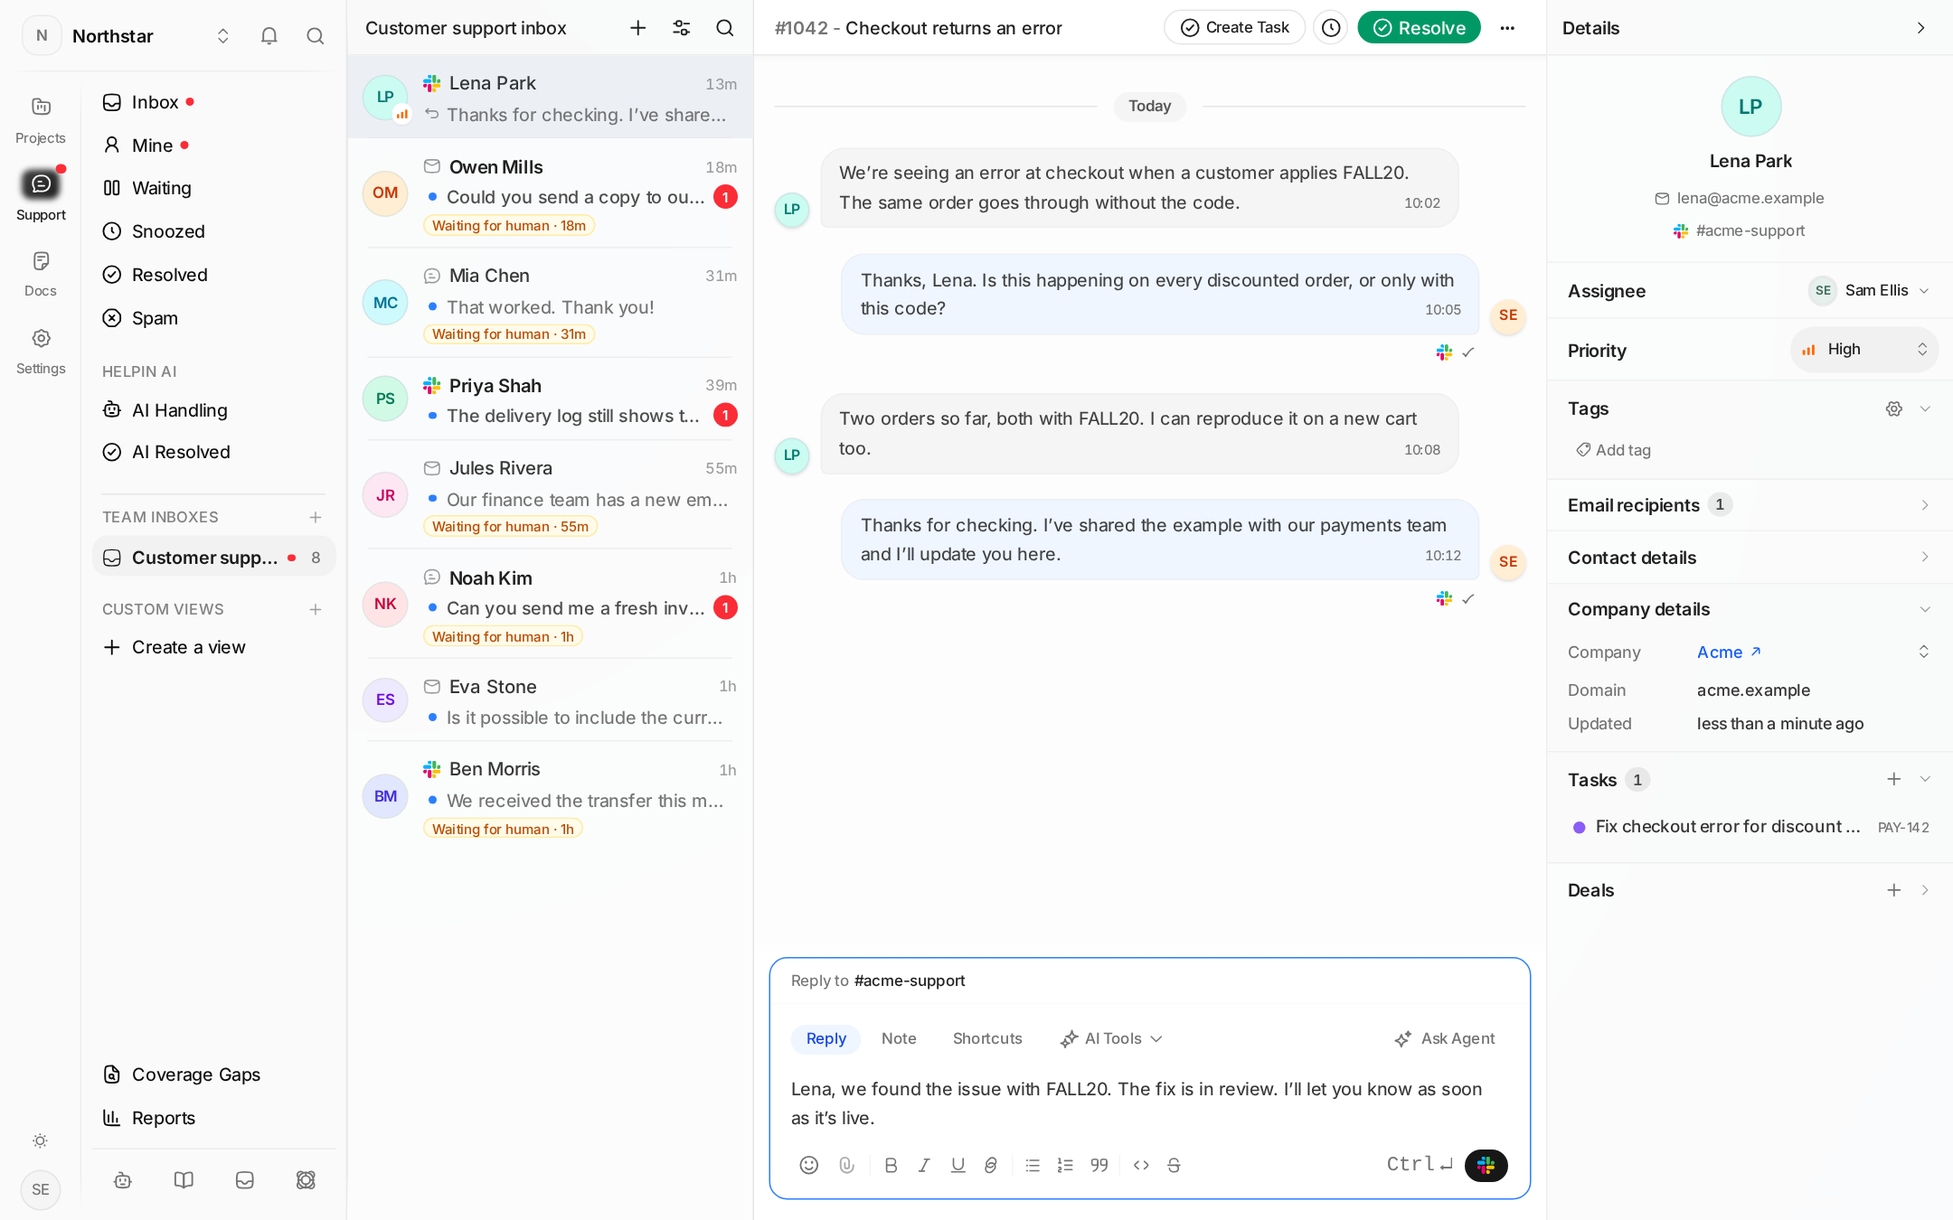
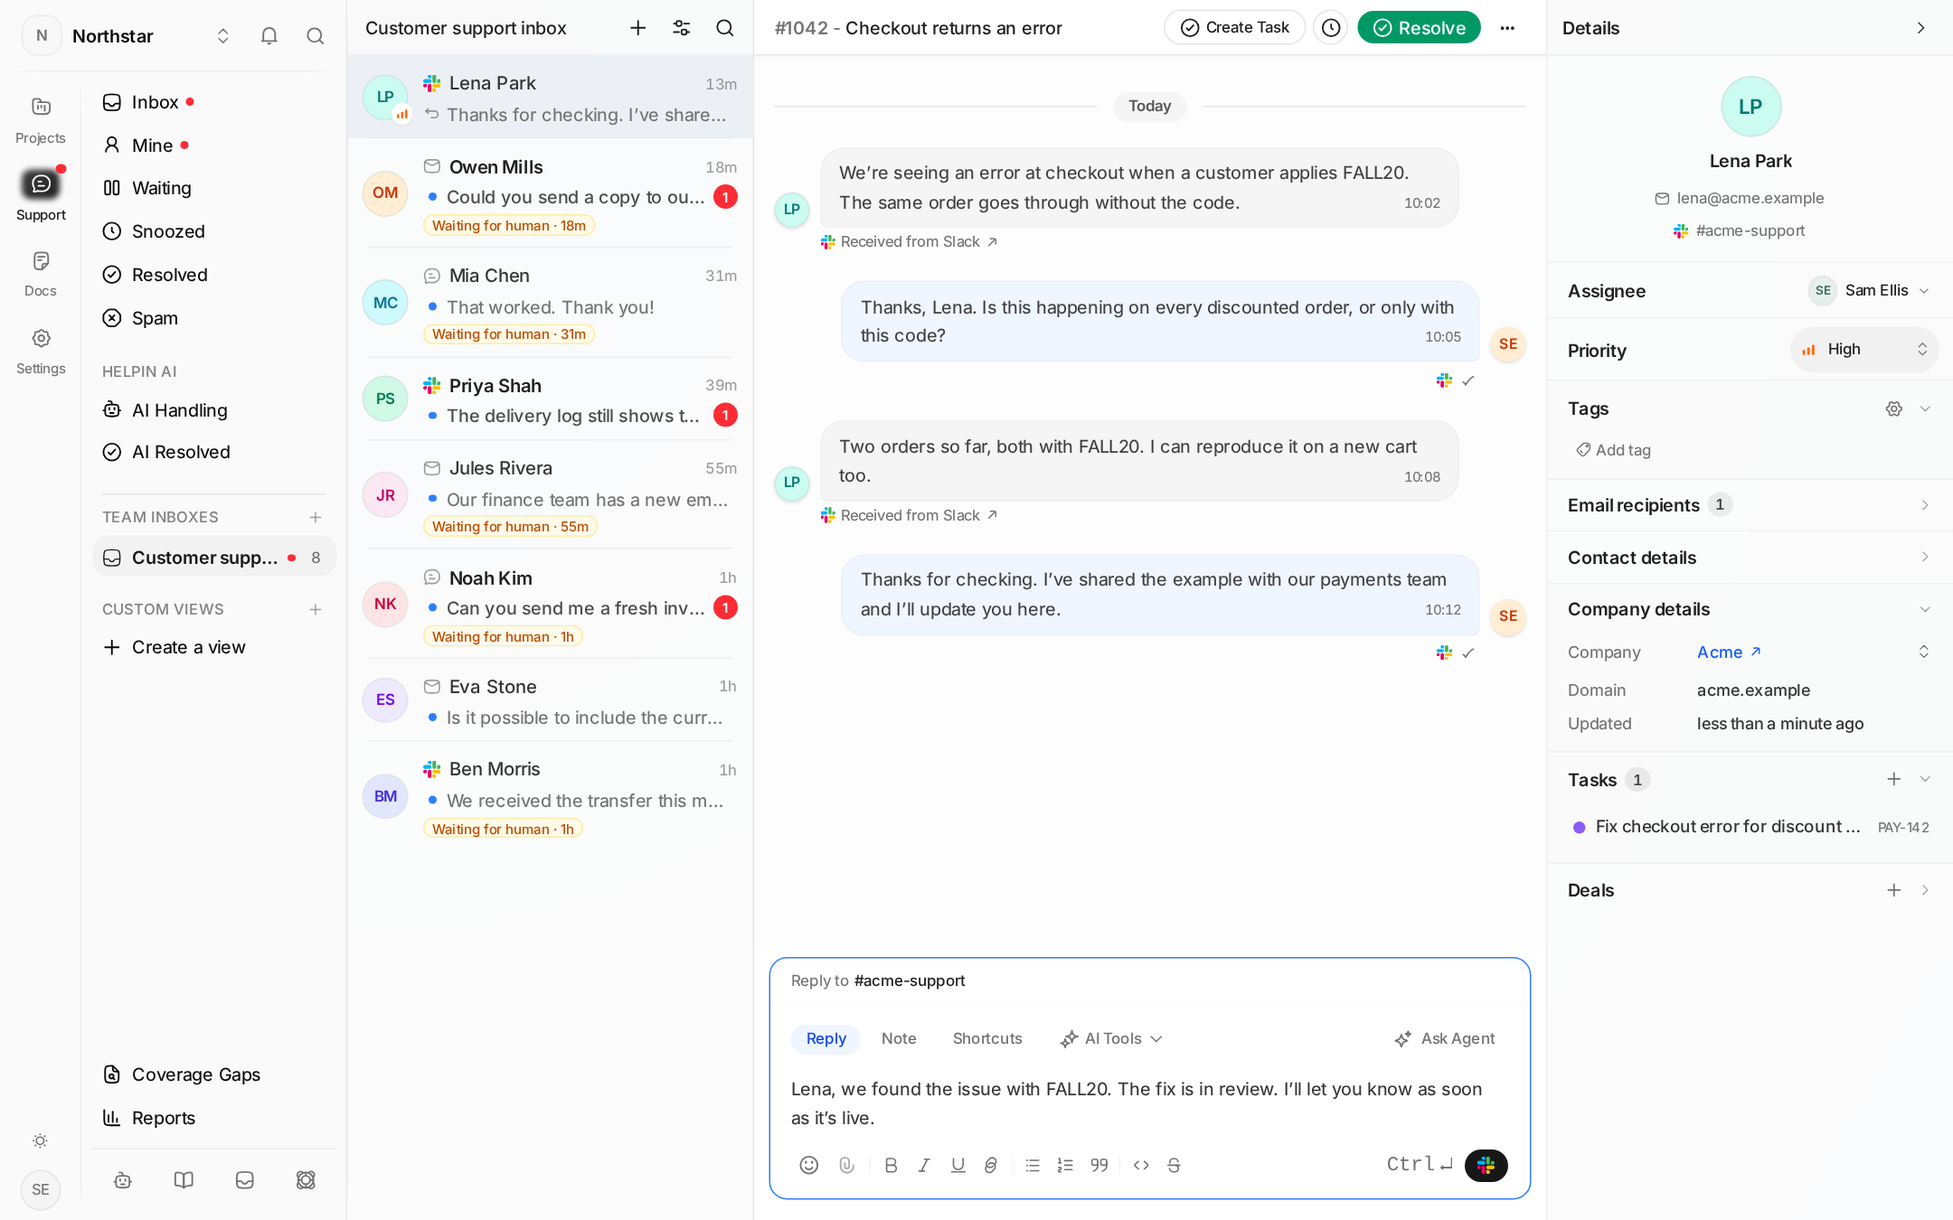
Open original Slack messages from the support inbox

Changed region(s): [[0.3722, 0.3422, 0.8065, 0.5289], [0.4343, 0.1867, 0.8065, 0.3111]]

diff --git a/.mockups/slack/index.html b/.mockups/slack/index.html
@@ -40,15 +40,15 @@
     </nav>
   </header>
   <figure>
-    <a id="full" href="inbox.png?v=3" title="Open full-resolution screenshot">
-      <img id="screen" src="inbox.png?v=3" alt="Helpin support inbox showing Lena’s Slack thread and its linked task.">
+    <a id="full" href="inbox.png?v=4" title="Open full-resolution screenshot">
+      <img id="screen" src="inbox.png?v=4" alt="Helpin support inbox showing Lena’s Slack thread and its linked task.">
     </a>
-    <figcaption aria-live="polite"><span id="caption"></span><a id="detail" hidden></a></figcaption>
+    <figcaption aria-live="polite"><span id="caption"></span><a id="incoming" href="incoming-detail.png?v=4" hidden>Enlarge message</a><a id="detail" hidden></a></figcaption>
   </figure>
 </main>
 <script>
   const captions = {
-    inbox: 'Sam’s draft goes to #acme-support. PAY-142 is linked in the details panel.',
+    inbox: 'Lena’s messages link to their originals in Slack. Sam’s draft goes to #acme-support.',
     list: 'The Customer support inbox on a narrow screen. Slack, email, and chat conversations share the same queue.',
     task: 'Ana’s update on PAY-142 shows where replies will sync in Slack.',
     channels: 'Northstar’s Slack connection in Settings → Channels, alongside Chat, Email, and Telegram.',
@@ -62,16 +62,17 @@
       if (link.hash === '#' + id) link.setAttribute('aria-current', 'page')
       else link.removeAttribute('aria-current')
     }
-    const file = id + '.png?v=3'
+    const file = id + '.png?v=4'
     document.getElementById('screen').src = file
     document.getElementById('screen').alt = captions[id]
     document.getElementById('full').href = file
     document.getElementById('caption').textContent = captions[id]
+    document.getElementById('incoming').hidden = id !== 'inbox'
     const detail = document.getElementById('detail')
     const detailName = { inbox: 'composer', task: 'comment' }[id]
     detail.hidden = !detailName
     if (detailName) {
-      detail.href = detailName + '-detail.png?v=3'
+      detail.href = detailName + '-detail.png?v=4'
       detail.textContent = 'Enlarge ' + detailName
     }
   }

diff --git a/frontend/src/components/support/MessageBubble.tsx b/frontend/src/components/support/MessageBubble.tsx
@@ -8,6 +8,7 @@ import { getSupportAIActivity, getSupportCodeCheck } from './supportAIActivityMo
 import { SupportCodeCheckCard } from './SupportCodeCheckCard';
 import { getSupportInvestigationReport } from './supportInvestigationReport';
 import { PendingSendStatus } from './PendingSendStatus';
+import { SlackMessageSource } from './SlackMessageSource';
 import { MessageDeliveryStatus } from './MessageDeliveryStatus';
 import { getMessageDelivery } from './messageDelivery';
 import { memo, useCallback, useMemo, useState, type ComponentPropsWithoutRef, type ReactNode } from 'react';
@@ -960,7 +961,8 @@ export const MessageBubble = memo(function MessageBubble({
       : `Received by email from ${inboundFromEmail}`
     : 'Received via email';
   const showStandaloneEmailBadge = isCustomer && hasEmailBadge;
-  const hasStatusBelow = !!delivery || aiConfidence !== null || !!aiMeta?.ai_sources?.length || showStandaloneEmailBadge;
+  const showSlackSource = isCustomer && !message.is_internal && message.via_channel === 'slack';
+  const hasStatusBelow = !!delivery || aiConfidence !== null || !!aiMeta?.ai_sources?.length || showStandaloneEmailBadge || showSlackSource;
   const messageActionsMenu = (
     <MessageActionsMenu
       alignSide={isCustomer ? 'right' : 'left'}
@@ -1066,6 +1068,7 @@ export const MessageBubble = memo(function MessageBubble({
           {message.pending_send && <PendingSendStatus message={message}/>}
           {!message.pending_send && (hasStatusBelow || cancellableActive || visitorFeedback !== undefined) && (
             <div className="mt-0.5">
+              {showSlackSource && <SlackMessageSource workspaceId={message.workspace_id} messageId={message.id} />}
               {showStandaloneEmailBadge && (
                 <div className={`mb-0.5 space-y-0.5 ${isCustomer ? '' : 'text-right'}`}>
                   <div className={`flex ${isCustomer ? '' : 'justify-end'}`}>

diff --git a/frontend/src/components/support/__tests__/MessageBubble.test.tsx b/frontend/src/components/support/__tests__/MessageBubble.test.tsx
@@ -63,6 +63,35 @@ function renderBubble(
 
 describe('MessageBubble', () => {
   it.each([
+    ['https://northstar.slack.com/archives/C123/p1700000123456789?thread_ts=1700000000.000001', true],
+    ['', false],
+  ])('renders incoming Slack attribution with the available source (%s)', async (permalink, linked) => {
+    const get = vi.spyOn(api, 'get').mockResolvedValue({ data: { permalink }, error: null });
+    const rendered = renderBubble({
+      id: 'slack-reply', workspace_id: 'ws', conversation_id: 'merged-conversation', via_channel: 'slack',
+      sender_type: 'customer', message_type: 'reply', is_internal: false, content: 'Another example',
+      created_at: '2026-09-24T10:00:00Z', updated_at: '2026-09-24T10:00:00Z',
+    });
+    try {
+      expect(rendered.container.textContent).toContain('Received from Slack');
+      await act(async () => {
+        await vi.waitFor(() => expect(rendered.queryClient.isFetching()).toBe(0));
+      });
+      expect(get).toHaveBeenCalledWith('/support/inbox/messages/slack-reply/slack-source?workspace_id=ws');
+      const link = rendered.container.querySelector<HTMLAnchorElement>('a[href]');
+      if (linked) {
+        expect(link?.href).toBe(permalink);
+        expect(link?.target).toBe('_blank');
+      } else {
+        expect(link).toBeNull();
+      }
+    } finally {
+      rendered.cleanup();
+      get.mockRestore();
+    }
+  });
+
+  it.each([
     ['**Billing update**\\\nPlease review @teammate.', true],
     ['**Billing update**\\\nContact person@example.com.', false],
   ])('preserves note markdown with mentions and email addresses: %s', (content, hasMention) => {

diff --git a/frontend/src/components/support/SlackMessageSource.tsx b/frontend/src/components/support/SlackMessageSource.tsx
@@ -1,0 +1,31 @@
+import { useEffect, useRef, useState } from 'react';
+import { useMessageSlackSource } from '@/hooks/queries/useSupport';
+import { ArrowUpRight01Icon, SlackIcon } from '@/lib/icons';
+
+export function SlackMessageSource({ workspaceId, messageId }: { workspaceId: string; messageId: string }) {
+  const footer = useRef<HTMLDivElement>(null);
+  const [visible, setVisible] = useState(() => typeof IntersectionObserver === 'undefined');
+
+  useEffect(() => {
+    if (visible || !footer.current) return;
+    const observer = new IntersectionObserver(entries => {
+      if (entries.some(entry => entry.isIntersecting)) setVisible(true);
+    });
+    observer.observe(footer.current);
+    return () => observer.disconnect();
+  }, [visible]);
+
+  const { data } = useMessageSlackSource(workspaceId, messageId, visible);
+  const attribution = <><SlackIcon className="size-3" />Received from Slack</>;
+  return (
+    <div ref={footer} className="mb-0.5 flex text-[11px] text-muted-foreground">
+      {data?.permalink ? (
+        <a href={data.permalink} target="_blank" rel="noopener noreferrer"
+          title="Open original message in Slack" aria-label="Received from Slack, open original message in a new tab"
+          className="inline-flex items-center gap-1 rounded-sm transition-colors hover:text-foreground hover:underline focus-visible:outline-2 focus-visible:outline-ring">
+          {attribution}<ArrowUpRight01Icon aria-hidden="true" className="size-3" />
+        </a>
+      ) : <span className="inline-flex items-center gap-1">{attribution}</span>}
+    </div>
+  );
+}

diff --git a/frontend/src/hooks/queries/useSupport.ts b/frontend/src/hooks/queries/useSupport.ts
@@ -1116,6 +1116,18 @@ export function useSendConversationTranscript(workspaceId: string) {
   });
 }
 
+export function useMessageSlackSource(workspaceId: string, messageId: string, visible: boolean) {
+  return useQuery({
+    queryKey: queryKeys.support.messageSlackSource(workspaceId, messageId),
+    queryFn: async () => unwrap(await supportService.getMessageSlackSource(workspaceId, messageId)),
+    enabled: visible && !!workspaceId && !!messageId,
+    staleTime: 30 * 60_000,
+    gcTime: 30 * 60_000,
+    retry: false,
+    refetchOnWindowFocus: false,
+  });
+}
+
 export function useMessageEmailDetail(workspaceId: string, messageId: string | null, enabled = true) {
   return useQuery({
     queryKey: queryKeys.support.messageEmail(workspaceId, messageId ?? ''),

diff --git a/frontend/src/lib/queryKeys.ts b/frontend/src/lib/queryKeys.ts
@@ -235,6 +235,7 @@ export const queryKeys = {
     /** Nested under the messages key so every message refresh also refreshes it. */
     conversationSharedItems: (wsId: string, id: string) =>
       ['support', wsId, 'conversations', id, 'messages', 'shared-items'] as const,
+    messageSlackSource: (wsId: string, messageId: string) => ['support', wsId, 'messages', messageId, 'slack-source'] as const,
     messageEmail: (wsId: string, messageId: string) => ['support', wsId, 'messages', messageId, 'email'] as const,
     messageInfo: (wsId: string, conversationId: string, messageId: string) =>
       ['support', wsId, 'conversations', conversationId, 'messages', messageId, 'info'] as const,

diff --git a/frontend/src/lib/services/supportService.ts b/frontend/src/lib/services/supportService.ts
@@ -431,6 +431,9 @@ export const supportService = {
   sendViewingPresence: (workspaceId: string, conversationId: string, viewing: boolean) =>
     api.post(`/support/inbox/conversations/${conversationId}/viewing${qs(workspaceId)}`, { viewing }),
 
+  getMessageSlackSource: (workspaceId: string, messageId: string) =>
+    api.get<{ permalink: string }>(`/support/inbox/messages/${messageId}/slack-source${qs(workspaceId)}`),
+
   // Email details for an individual message (only when via_channel === 'email').
   getMessageEmailDetail: (workspaceId: string, messageId: string) =>
     api.get<SupportMessageEmailDetail>(`/support/inbox/messages/${messageId}/email${qs(workspaceId)}`),

diff --git a/server/internal/service/slack_postgres_test.go b/server/internal/service/slack_postgres_test.go
@@ -17,6 +17,7 @@ import (
 	"testing"
 	"time"
 
+	"github.com/google/uuid"
 	"github.com/helpin-ai/helpin/server/internal/authorization"
 	"github.com/helpin-ai/helpin/server/internal/channels"
 	"github.com/helpin-ai/helpin/server/internal/channels/slack"
@@ -369,5 +370,70 @@ func TestSlackTaskReviewOptionsPostgres(t *testing.T) {
 	}
 	if !foundLabel || !foundState {
 		t.Fatalf("missing team review fields: labels=%v status=%v", foundLabel, foundState)
+	}
+}
+
+func TestSlackMessageSourcePostgres(t *testing.T) {
+	f := newOutboxFixture(t)
+	ctx := context.Background()
+	mustExec(t, f.db, "UPDATE support_channel_accounts SET provider='slack' WHERE id=?", f.account.ID)
+	f.account.Provider = "slack"
+	s := NewSlackService(f.svc, repository.NewSlackRepository(f.db), SlackConfig{})
+	const permalink = "https://acme.slack.com/archives/C1/p1700000010000012?thread_ts=1700000000.000001&cid=C1"
+	calls := 0
+	fake := httptest.NewServer(http.HandlerFunc(func(w http.ResponseWriter, r *http.Request) {
+		calls++
+		if r.Method != http.MethodGet || r.URL.Path != "/chat.getPermalink" || r.URL.Query().Get("channel") != "C1" || r.URL.Query().Get("message_ts") != "1700000010.000012" || r.Header.Get("Authorization") != "Bearer 424242:token" {
+			t.Error("permalink request lost the original message coordinates or installation")
+		}
+		json.NewEncoder(w).Encode(map[string]any{"ok": true, "permalink": permalink})
+	}))
+	defer fake.Close()
+	s.api.BaseURL = fake.URL + "/"
+	event := channels.Event{Kind: channels.EventMessage, ExternalUserID: "Ulena", ExternalChatID: "C1",
+		ExternalMessageKey: "C1:1700000000.000001", ThreadKey: "C1:1700000000.000001", ChannelName: "acme", Text: "First example"}
+	first, err := f.inbox.receiveChannelMessage(ctx, f.account, event, 1000)
+	if err != nil {
+		t.Fatal(err)
+	}
+	origin := first.message.ConversationID
+	outbound := f.reply(t, origin, "user", "Customer update")
+	_, err = repository.NewSupportMergeRepository(f.db).Merge(ctx, f.workspace, f.conv, []string{origin}, f.userID, uuid.NewString(), true)
+	if err != nil {
+		t.Fatal(err)
+	}
+	event.ExternalMessageKey, event.Text = "C1:1700000010.000012", "A second example"
+	received, err := f.inbox.receiveChannelMessage(ctx, f.account, event, 1000)
+	if err != nil {
+		t.Fatal(err)
+	}
+	msg := received.message
+	if msg.ConversationID != f.conv || derefString(msg.OriginConversationID) != origin {
+		t.Fatal("reply was not routed through the merged conversation")
+	}
+	actor := &authorization.Actor{WorkspaceID: f.workspace, WorkspaceMemberID: f.userID, UserID: f.userID, Role: "member"}
+	member := authorization.WithActor(ctx, actor)
+	check := func(c context.Context, ws, id, want string) {
+		t.Helper()
+		actual, err := s.MessageSource(c, ws, id)
+		if err != nil || actual != want {
+			t.Fatalf("got %q, want %q: %v", actual, want, err)
+		}
+	}
+	check(member, f.workspace, msg.ID, permalink)
+	check(ctx, f.workspace, msg.ID, "")
+	check(member, f.userID, msg.ID, "")
+	check(member, f.workspace, outbound.ID, "")
+	private := model.SupportMailbox{WorkspaceID: f.workspace, Name: "Private", Handle: "private", CreatedByID: f.userID, Active: true}
+	if err := f.db.Create(&private).Error; err != nil {
+		t.Fatal(err)
+	}
+	mustExec(t, f.db, "UPDATE support_conversations SET mailbox_id=? WHERE id=?", private.ID, f.conv)
+	check(member, f.workspace, msg.ID, "")
+	mustExec(t, f.db, "UPDATE support_conversations SET mailbox_id=NULL WHERE id=?", f.conv)
+	mustExec(t, f.db, "UPDATE support_conversations SET anonymized_at=now() WHERE id=?", origin)
+	check(member, f.workspace, msg.ID, "")
+	if calls != 1 {
+		t.Fatalf("looked up inaccessible sources: %d provider calls", calls)
 	}
 }

diff --git a/server/internal/service/slack_support.go b/server/internal/service/slack_support.go
@@ -198,3 +198,42 @@ func (s *SlackService) SetAI(ctx context.Context, ws string, enabled bool) error
 	}
 	return s.channels.accounts.Update(ctx, ws, a.ID, map[string]any{"ai_replies_disabled": !enabled})
 }
+
+// MessageSource resolves the original inbound message, including when displayed in a merged inbox thread.
+func (s *SlackService) MessageSource(ctx context.Context, workspaceID, messageID string) (string, error) {
+	actor := supportActorFromContext(ctx, workspaceID)
+	if actor == nil || actor.WorkspaceMemberID == "" {
+		return "", nil
+	}
+	inbox := s.channels.inbox
+	msg, err := inbox.messageRepo.GetByID(ctx, messageID)
+	if err != nil || msg == nil || msg.WorkspaceID != workspaceID {
+		return "", err
+	}
+	if msg.SenderType != "customer" || msg.IsInternal || msg.MessageType != "reply" || derefString(msg.ViaChannel) != "slack" || msg.ChannelAccountID == nil {
+		return "", nil
+	}
+	channel, ts, ok := strings.Cut(derefString(msg.ExternalMessageKey), ":")
+	if !ok || channel == "" || ts == "" {
+		return "", nil
+	}
+	conv, err := inbox.loadConversationAccessible(ctx, workspaceID, msg.ConversationID)
+	if err != nil || conv == nil || conv.AnonymizedAt != nil {
+		return "", err
+	}
+	if origin := derefString(msg.OriginConversationID); origin != "" && origin != conv.ID {
+		original, err := inbox.loadConversationUnscoped(ctx, workspaceID, origin)
+		if err != nil || original == nil || original.AnonymizedAt != nil {
+			return "", err
+		}
+	}
+	account, err := s.repo.Installation(ctx, workspaceID)
+	if err != nil || account == nil || account.ID != *msg.ChannelAccountID || account.Status != model.SupportChannelAccountActive {
+		return "", err
+	}
+	token, err := s.channels.decryptToken(account)
+	if err != nil {
+		return "", err
+	}
+	return s.api.MessagePermalink(ctx, token, channel, ts)
+}

diff --git a/server/internal/channels/slack/client.go b/server/internal/channels/slack/client.go
@@ -10,6 +10,7 @@ import (
 	"net/http"
 	"net/url"
 	"strconv"
+	"strings"
 	"time"
 )
 
@@ -112,4 +113,32 @@ func (c *Client) Get(ctx context.Context, token, method string, v url.Values, ou
 	}
 	req.Header.Set("Authorization", "Bearer "+token)
 	return c.do(req, out)
+}
+
+// MessagePermalink returns Slack's archive link for an individual message, including thread context.
+func (c *Client) MessagePermalink(ctx context.Context, token, channel, ts string) (string, error) {
+	var out struct{ Permalink string }
+	err := c.Get(ctx, token, "chat.getPermalink", url.Values{"channel": {channel}, "message_ts": {ts}}, &out)
+	if err != nil {
+		var apiErr *APIError
+		if errors.As(err, &apiErr) {
+			switch apiErr.Code {
+			case "message_not_found", "channel_not_found", "not_in_channel", "team_access_not_granted", "invalid_auth", "token_revoked", "account_inactive":
+				return "", nil
+			}
+		}
+		return "", err
+	}
+	u, err := url.Parse(out.Permalink)
+	if err != nil || u.Scheme != "https" || u.User != nil || u.Port() != "" {
+		return "", nil
+	}
+	host := u.Hostname()
+	if host != "slack.com" && !strings.HasSuffix(host, ".slack.com") && host != "slack-gov.com" && !strings.HasSuffix(host, ".slack-gov.com") {
+		return "", nil
+	}
+	if u.EscapedPath() != "/archives/"+channel+"/p"+strings.ReplaceAll(ts, ".", "") {
+		return "", nil
+	}
+	return out.Permalink, nil
 }

diff --git a/server/internal/channels/slack/permalink_test.go b/server/internal/channels/slack/permalink_test.go
@@ -1,0 +1,31 @@
+package slack
+
+import (
+	"context"
+	"encoding/json"
+	"net/http"
+	"net/http/httptest"
+	"testing"
+)
+
+func TestMessagePermalinkFallback(t *testing.T) {
+	for _, tc := range []struct{ name, permalink, code string }{
+		{name: "missing message", code: "message_not_found"},
+		{name: "bot lost access", code: "not_in_channel"},
+		{name: "another site", permalink: "https://slack.com.example.org/archives/C1/p101"},
+		{name: "different message", permalink: "https://acme.slack.com/archives/C1/p102"},
+		{name: "non-archive path", permalink: "https://acme.slack.com/redirect"},
+	} {
+		t.Run(tc.name, func(t *testing.T) {
+			fake := httptest.NewServer(http.HandlerFunc(func(w http.ResponseWriter, r *http.Request) {
+				json.NewEncoder(w).Encode(map[string]any{"ok": tc.code == "", "permalink": tc.permalink, "error": tc.code})
+			}))
+			defer fake.Close()
+			c := NewClient()
+			c.BaseURL = fake.URL + "/"
+			if link, err := c.MessagePermalink(context.Background(), "fixture", "C1", "10.1"); err != nil || link != "" {
+				t.Fatalf("unexpected source %q, error %v", link, err)
+			}
+		})
+	}
+}

diff --git a/server/internal/router/router.go b/server/internal/router/router.go
@@ -1259,6 +1259,9 @@ func New(h Handlers, jwtManager *auth.JWTManager, authz *authorization.AuthzServ
 
 				r.With(requirePerm(authorization.PermSupportRead)).Get("/inbox/conversations/{id}/message-pages", h.SupportInbox.ListConversationMessagePage)
 				r.With(requirePerm(authorization.PermSupportRead)).Get("/inbox/messages/{id}/email", h.SupportInbox.GetMessageEmailDetail)
+				if h.Slack != nil {
+					r.With(requirePerm(authorization.PermSupportRead)).Get("/inbox/messages/{id}/slack-source", h.Slack.MessageSource)
+				}
 				r.With(requirePerm(authorization.PermSupportEdit)).Post("/inbox/messages/{id}/attachments/{attachmentID}/retry", h.SupportInbox.RetryInboundAttachment)
 				r.With(requirePerm(authorization.PermSupportEdit)).Post("/inbox/messages/{id}/channel-retry", h.SupportInbox.RetryChannelDelivery)
 				if h.EmailImageProxy != nil {
